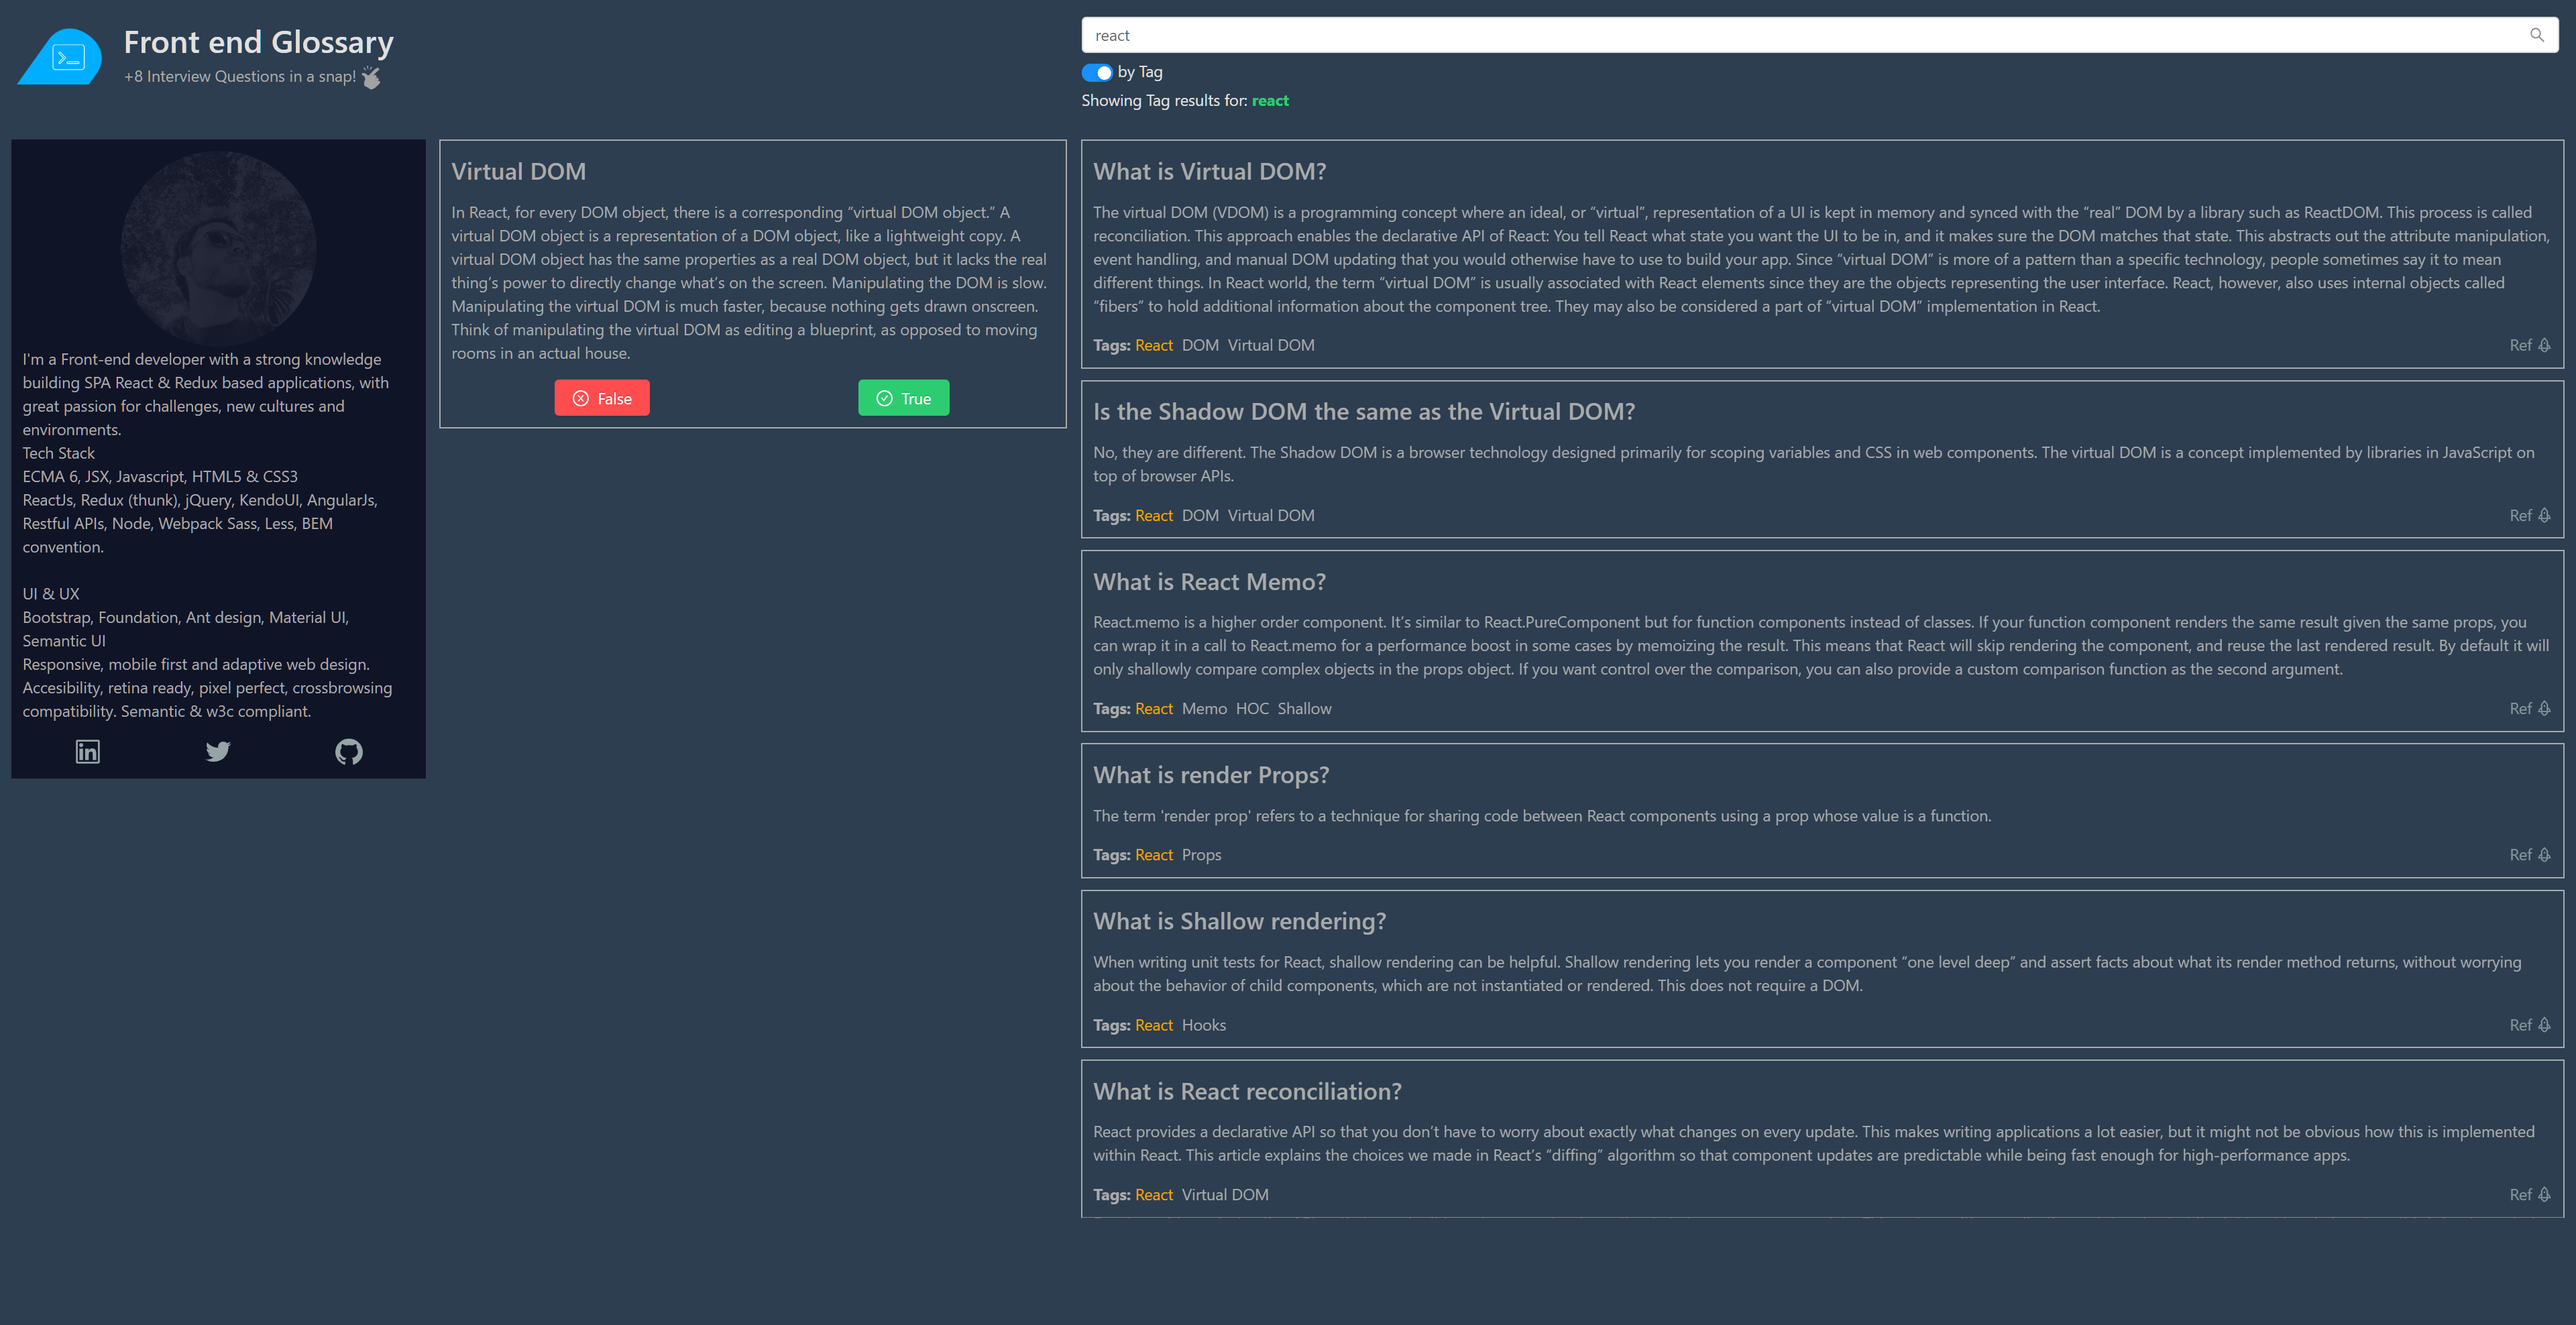
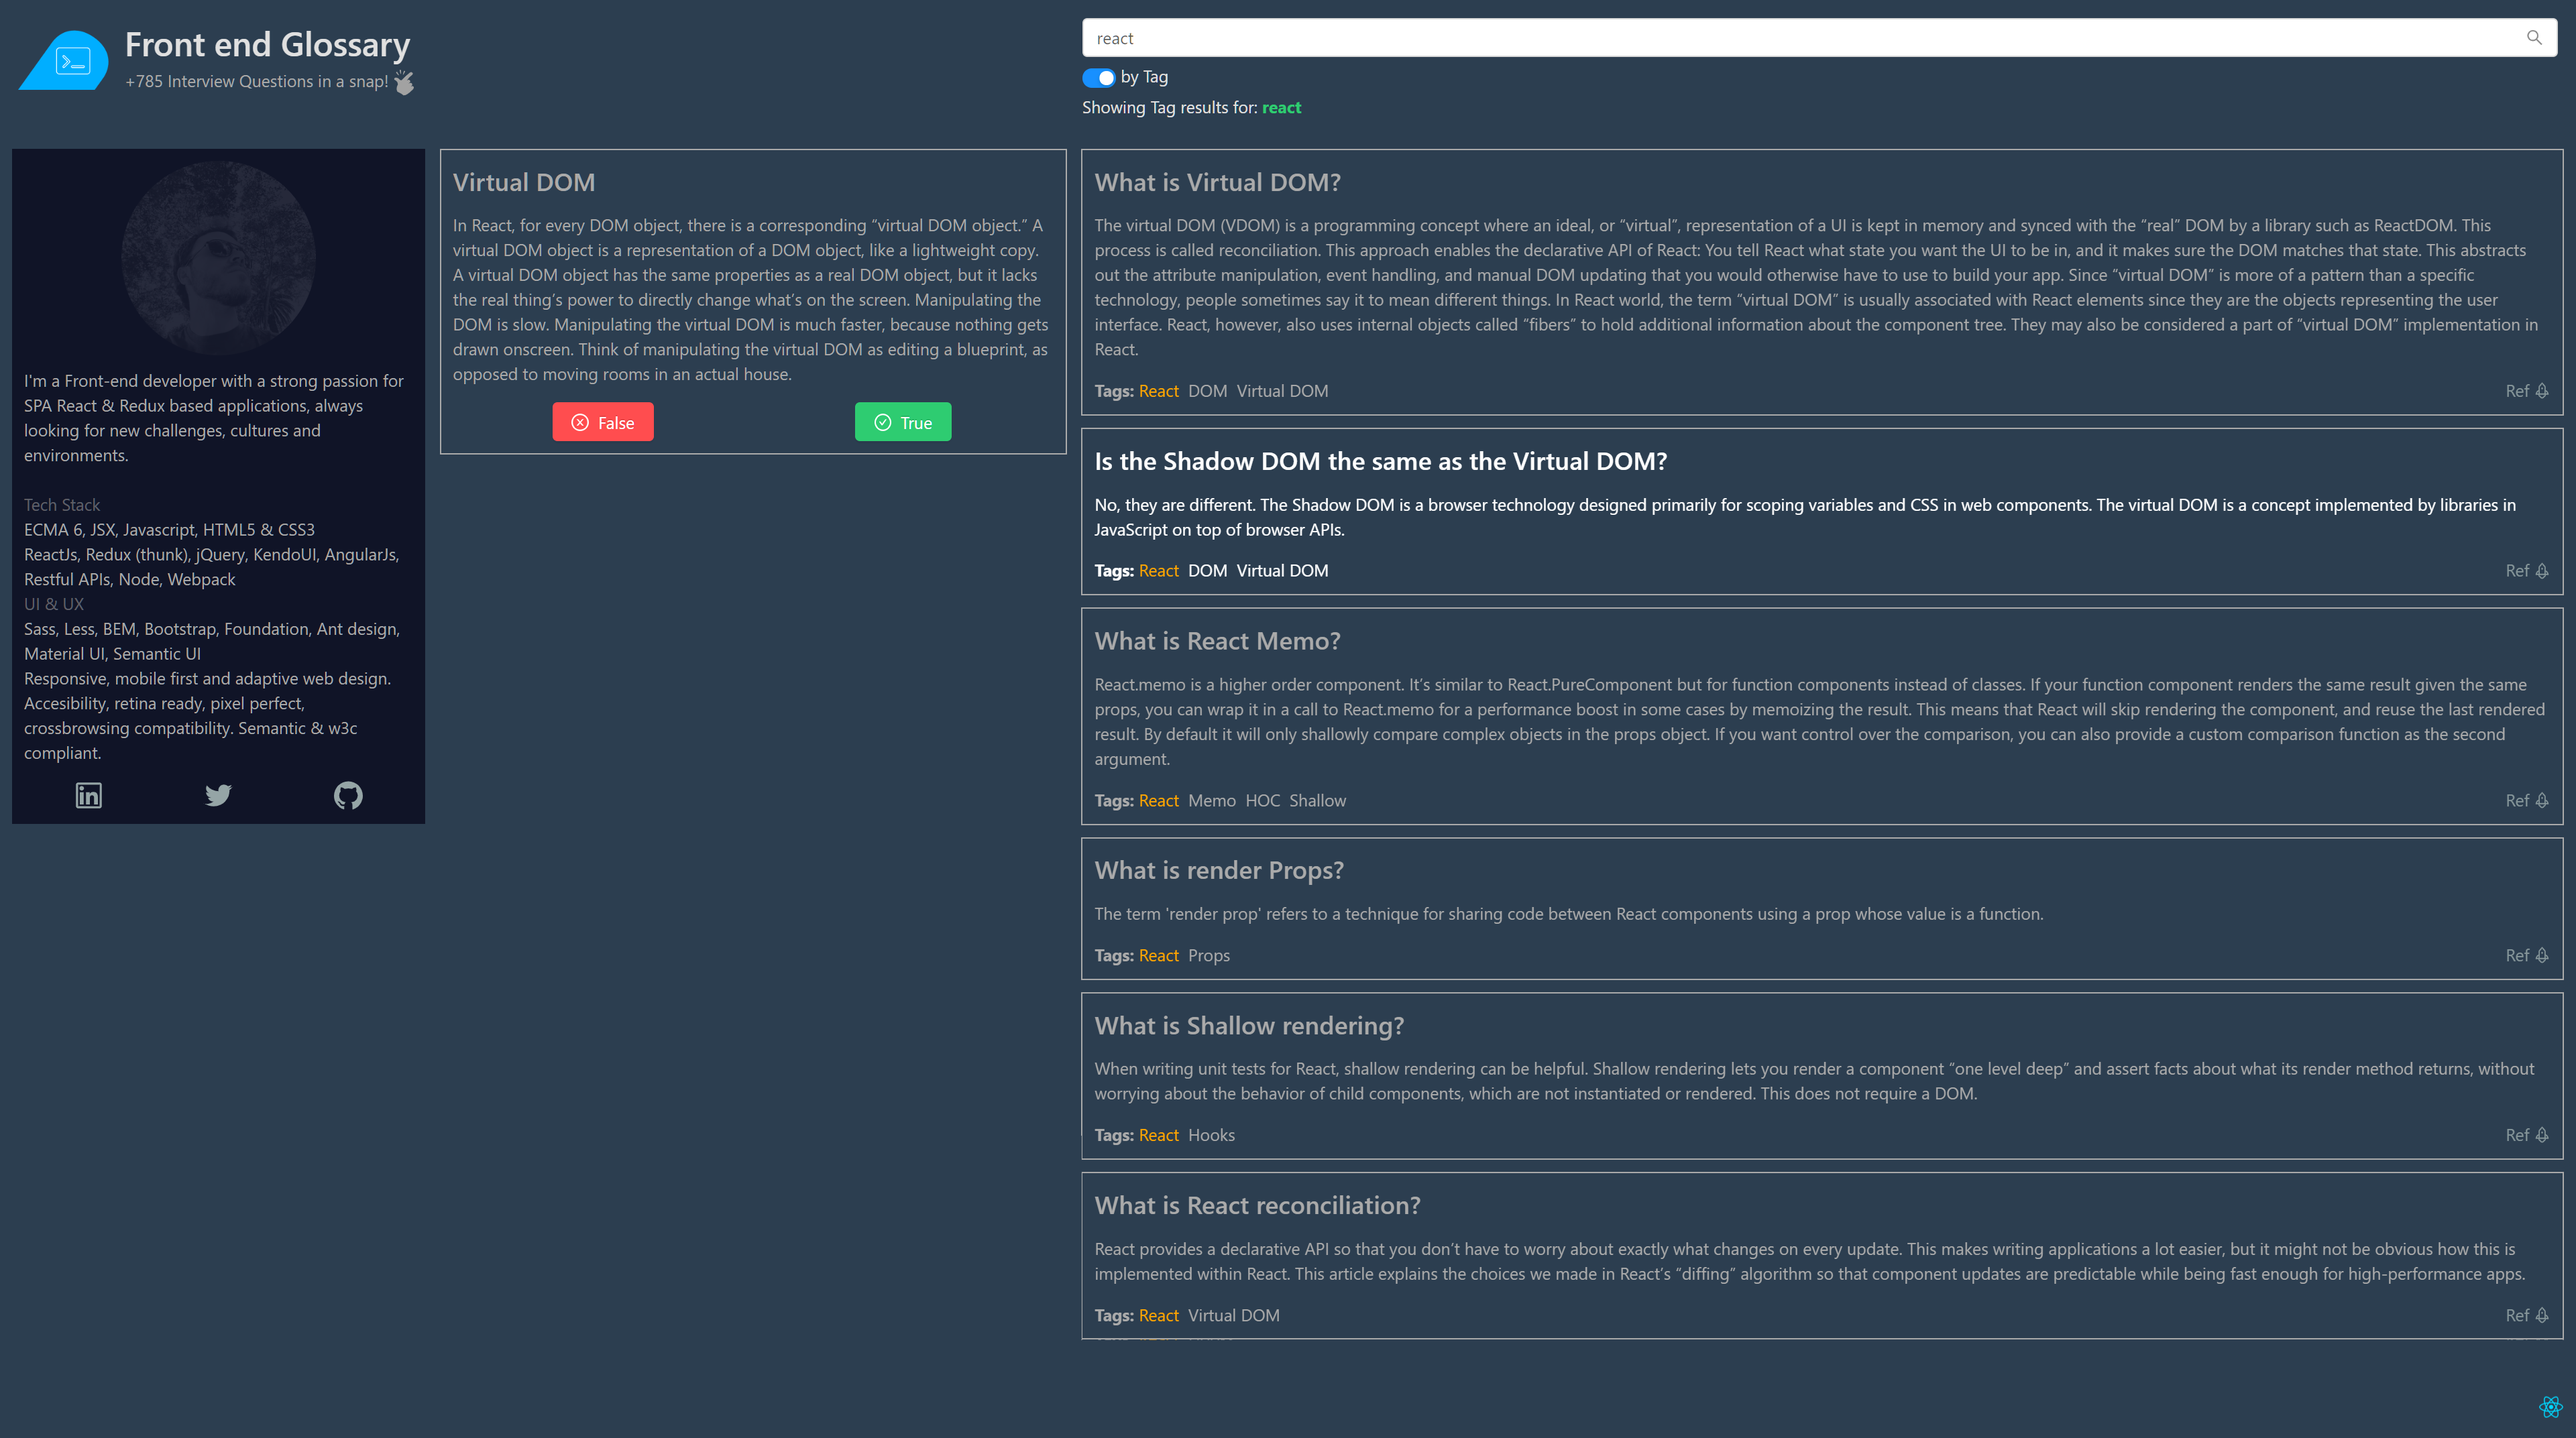
scr

diff --git a/src/components/About/About.js b/src/components/About/About.js
@@ -16,22 +16,22 @@ const About = props => {
       <Row>
         <Col span={24}>
           <img className="img--profile" src={profile} alt="profile" />
-          <p style={{marginTop: '10px'}}>
-            I'm a Front-end developer with a strong knowledge building SPA
-            React & Redux based applications, with great passion for
-            challenges, new cultures and environments.
+          <p style={{ marginTop: "10px" }}>
+            I'm a Front-end developer with a strong passion for SPA React
+            & Redux based applications, always looking for new challenges,
+            cultures and environments.
             <br />
-            Tech Stack
+            <br />
+            <span style={{opacity:'.5'}}>Tech Stack</span>
             <br />
             ECMA 6, JSX, Javascript, HTML5 & CSS3
             <br />
             ReactJs, Redux (thunk), jQuery, KendoUI, AngularJs, Restful APIs,
-            Node, Webpack Sass, Less, BEM convention.
+            Node, Webpack
             <br />
+            <span style={{opacity:'.5'}}>UI & UX</span>
             <br />
-            UI & UX
-            <br />
-            Bootstrap, Foundation, Ant design, Material UI, Semantic UI
+            Sass, Less, BEM, Bootstrap, Foundation, Ant design, Material UI, Semantic UI
             <br />
             Responsive, mobile first and adaptive web design.
             <br />
@@ -42,7 +42,10 @@ const About = props => {
       </Row>
       <Row>
         <Col span={8} className="text-center">
-          <a href="https://www.linkedin.com/in/manuelbaronetti/" target="_blank">
+          <a
+            href="https://www.linkedin.com/in/manuelbaronetti/"
+            target="_blank"
+          >
             <Icon style={iconStyle} type="linkedin" />
           </a>
         </Col>

diff --git a/src/components/About/About.scss b/src/components/About/About.scss
@@ -4,7 +4,11 @@
   width: 50%;
   margin: auto;
   display: block;
-  transition: all .25s ease;
-  &:hover{opacity: .5}
+  transition: all 0.25s ease;
+  &:hover {
+    opacity: 0.5;
+  }
 }
-a{color: #95a5a6}
+a {
+  color: #95a5a6;
+}

diff --git a/src/components/QuestionBlock/QuestionBlock.css b/src/components/QuestionBlock/QuestionBlock.css
@@ -1,7 +1,8 @@
 .question--block {
   border: 1px solid #aaa;
   padding: 10px;
-  margin: 0 auto 10px auto; }
+  margin: 0 auto 10px auto;
+  overflow: hidden; }
   .question--block,
   .question--block h2 {
     color: #aaa;

diff --git a/src/components/About/About.css b/src/components/About/About.css
@@ -4,9 +4,9 @@
   width: 50%;
   margin: auto;
   display: block;
-  transition: all .25s ease; }
+  transition: all 0.25s ease; }
   .img--profile:hover {
-    opacity: .5; }
+    opacity: 0.5; }
 
 a {
   color: #95a5a6; }

diff --git a/src/components/QuestionBlock/QuestionBlock.scss b/src/components/QuestionBlock/QuestionBlock.scss
@@ -4,6 +4,7 @@
   border: 1px solid $grey;
   padding: $padding;
   margin: 0 auto 10px auto;
+  overflow: hidden;
   &,
   h2 {
     color: $grey;
